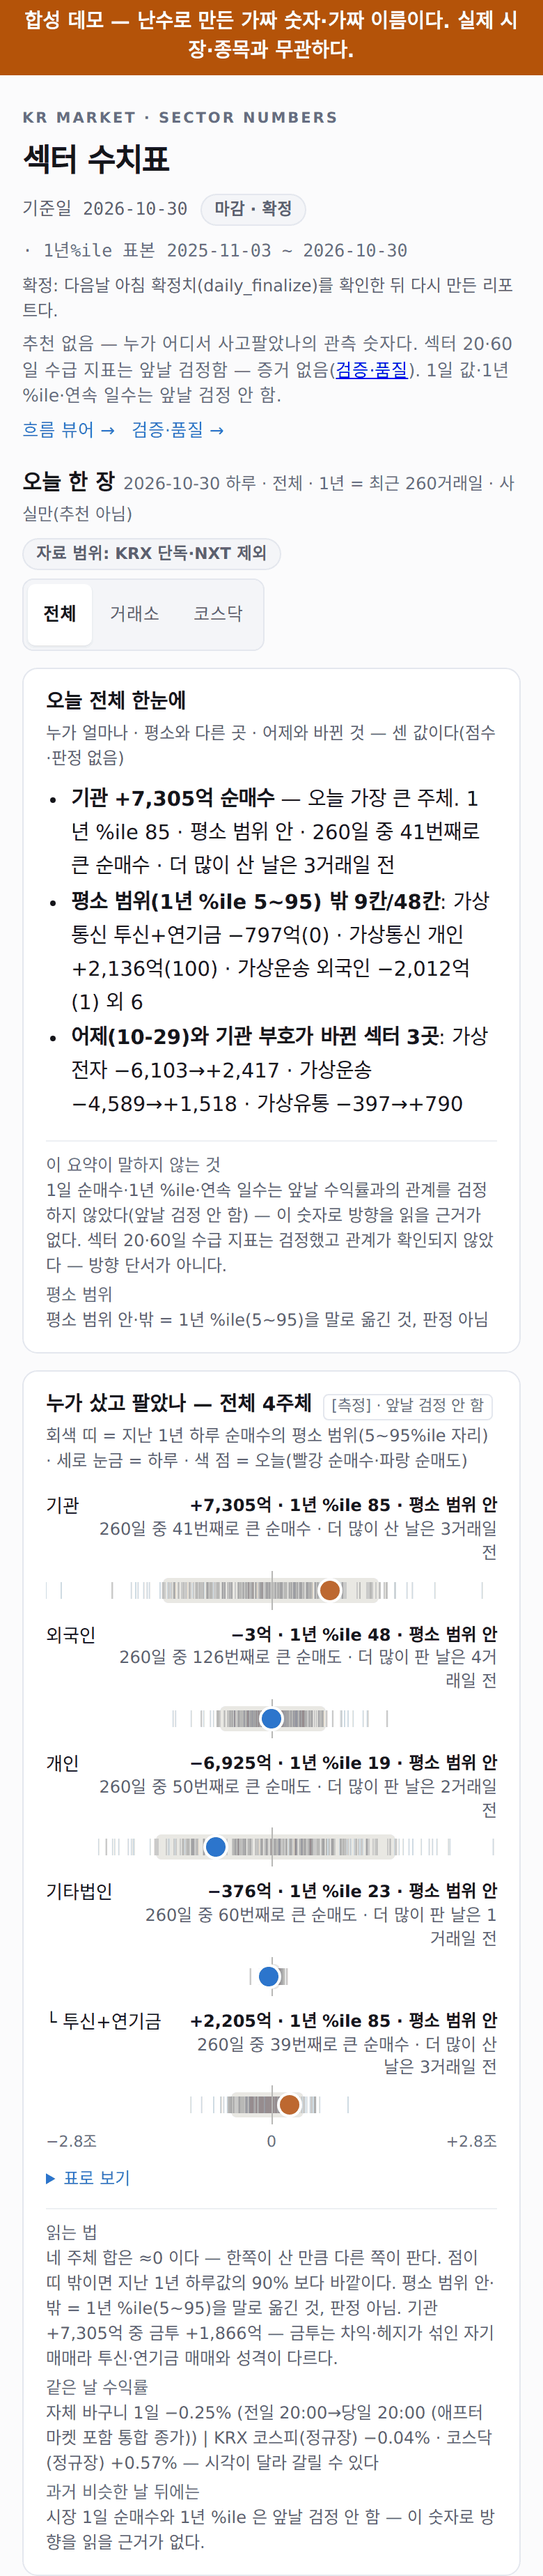
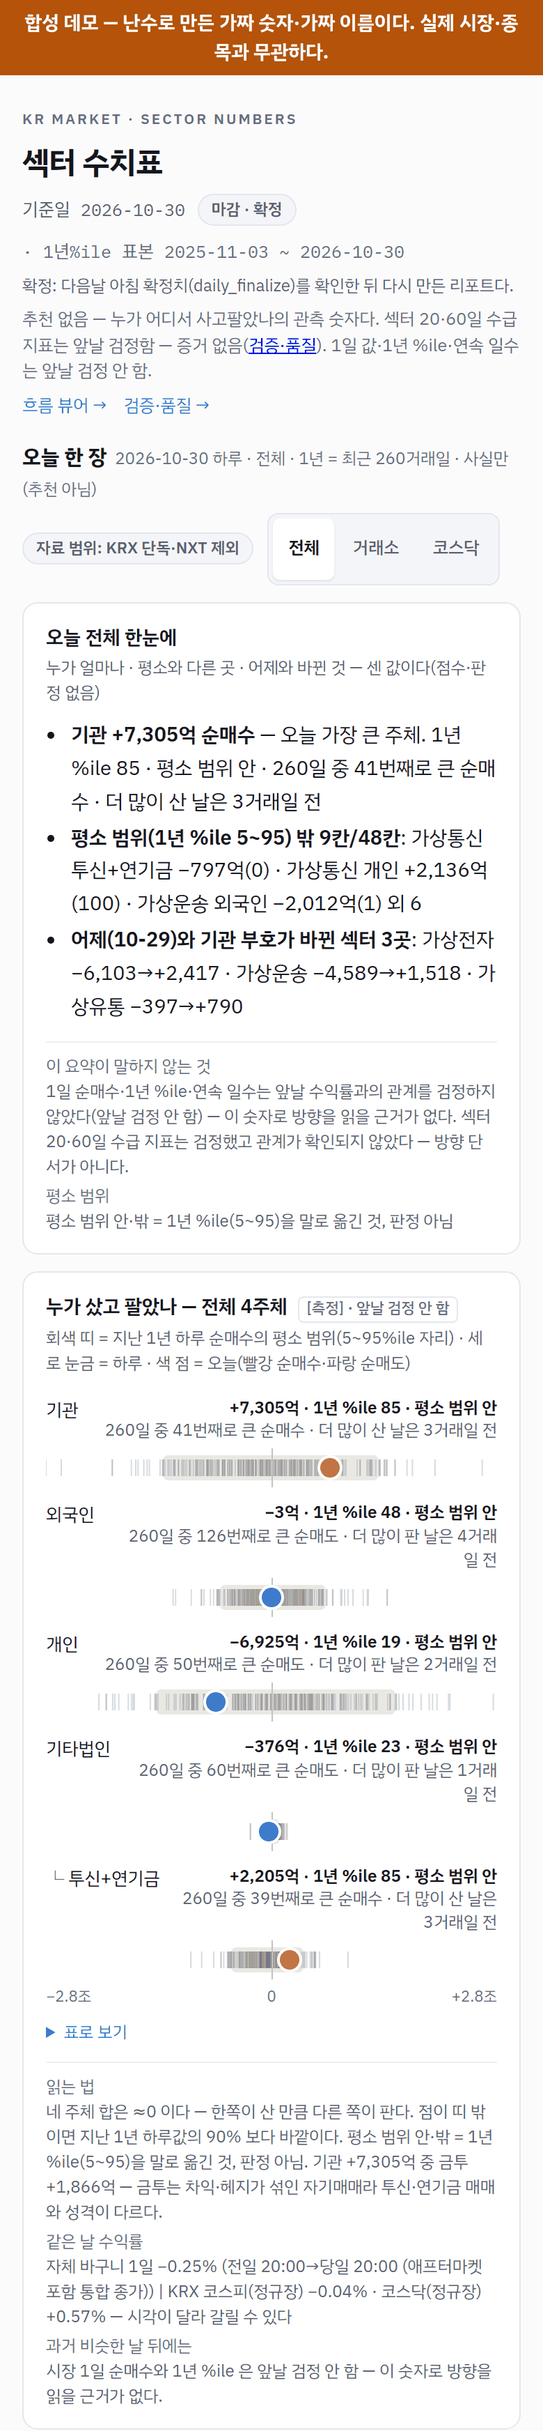
docs(images): 극단 판정 한 곳·뷰어 시총 결측 뒤 데모 그림을 다시 찍는다

diff --git a/docs/SCREENSHOTS.md b/docs/SCREENSHOTS.md
@@ -15,17 +15,17 @@ uv run --with playwright --with pillow python scripts/demo_shots.py
 
 | 이미지 | 감시 경로 | 찍은 커밋 |
 |---|---|---|
-| docs/images/kqflow-today.png | src/sectorflow/tui/ | 43b8a9aceca4f34aa84d3e7454e50449005ea049 |
-| docs/images/kqflow-today.png | src/sectorflow/demo.py | 43b8a9aceca4f34aa84d3e7454e50449005ea049 |
-| docs/images/kqflow-table.png | src/sectorflow/tui/ | 43b8a9aceca4f34aa84d3e7454e50449005ea049 |
-| docs/images/kqflow-table.png | src/sectorflow/demo.py | 43b8a9aceca4f34aa84d3e7454e50449005ea049 |
-| docs/images/kqflow-names.png | src/sectorflow/tui/ | 43b8a9aceca4f34aa84d3e7454e50449005ea049 |
-| docs/images/kqflow-names.png | src/sectorflow/demo.py | 43b8a9aceca4f34aa84d3e7454e50449005ea049 |
-| docs/images/kqflow-combined.png | src/sectorflow/tui/ | 43b8a9aceca4f34aa84d3e7454e50449005ea049 |
-| docs/images/kqflow-combined.png | src/sectorflow/demo.py | 43b8a9aceca4f34aa84d3e7454e50449005ea049 |
-| docs/images/kqledger-table.png | src/sectorflow/tui/ | 43b8a9aceca4f34aa84d3e7454e50449005ea049 |
-| docs/images/kqledger-table.png | src/sectorflow/demo.py | 43b8a9aceca4f34aa84d3e7454e50449005ea049 |
-| docs/images/web-today.png | scripts/templates/ | 43b8a9aceca4f34aa84d3e7454e50449005ea049 |
-| docs/images/web-today.png | src/sectorflow/demo.py | 43b8a9aceca4f34aa84d3e7454e50449005ea049 |
-| docs/images/web-today-mobile.png | scripts/templates/ | 43b8a9aceca4f34aa84d3e7454e50449005ea049 |
-| docs/images/web-today-mobile.png | src/sectorflow/demo.py | 43b8a9aceca4f34aa84d3e7454e50449005ea049 |
+| docs/images/kqflow-today.png | src/sectorflow/tui/ | 3db9b7648c4bbc11117eee08b9b0524528b52b3c |
+| docs/images/kqflow-today.png | src/sectorflow/demo.py | 3db9b7648c4bbc11117eee08b9b0524528b52b3c |
+| docs/images/kqflow-table.png | src/sectorflow/tui/ | 3db9b7648c4bbc11117eee08b9b0524528b52b3c |
+| docs/images/kqflow-table.png | src/sectorflow/demo.py | 3db9b7648c4bbc11117eee08b9b0524528b52b3c |
+| docs/images/kqflow-names.png | src/sectorflow/tui/ | 3db9b7648c4bbc11117eee08b9b0524528b52b3c |
+| docs/images/kqflow-names.png | src/sectorflow/demo.py | 3db9b7648c4bbc11117eee08b9b0524528b52b3c |
+| docs/images/kqflow-combined.png | src/sectorflow/tui/ | 3db9b7648c4bbc11117eee08b9b0524528b52b3c |
+| docs/images/kqflow-combined.png | src/sectorflow/demo.py | 3db9b7648c4bbc11117eee08b9b0524528b52b3c |
+| docs/images/kqledger-table.png | src/sectorflow/tui/ | 3db9b7648c4bbc11117eee08b9b0524528b52b3c |
+| docs/images/kqledger-table.png | src/sectorflow/demo.py | 3db9b7648c4bbc11117eee08b9b0524528b52b3c |
+| docs/images/web-today.png | scripts/templates/ | 3db9b7648c4bbc11117eee08b9b0524528b52b3c |
+| docs/images/web-today.png | src/sectorflow/demo.py | 3db9b7648c4bbc11117eee08b9b0524528b52b3c |
+| docs/images/web-today-mobile.png | scripts/templates/ | 3db9b7648c4bbc11117eee08b9b0524528b52b3c |
+| docs/images/web-today-mobile.png | src/sectorflow/demo.py | 3db9b7648c4bbc11117eee08b9b0524528b52b3c |
